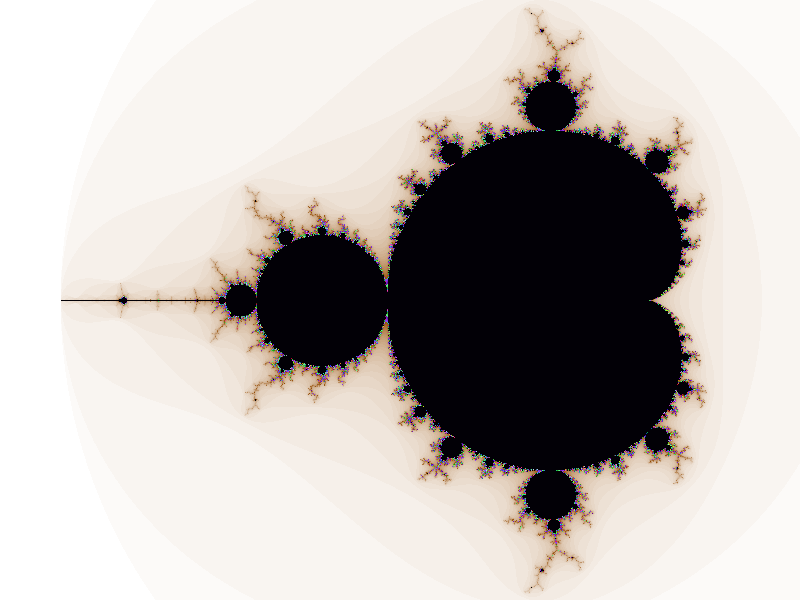
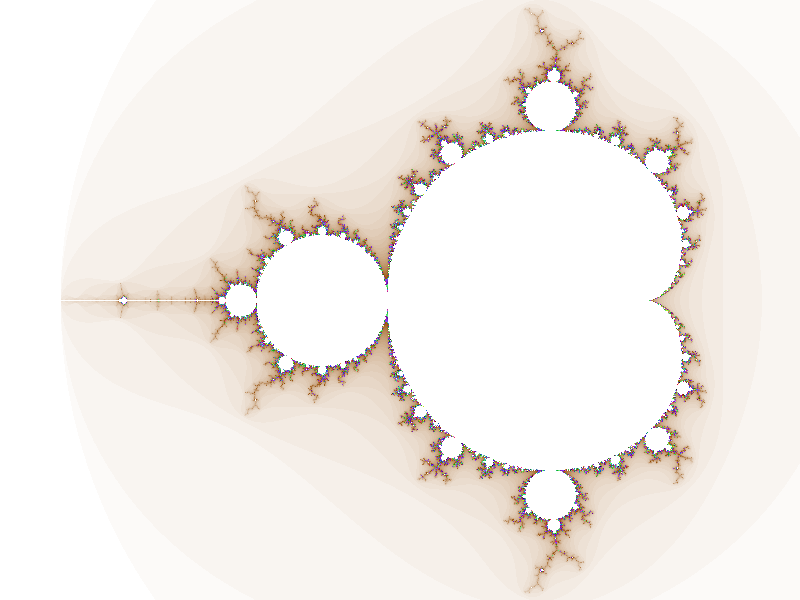
Various work.

Changed region(s): [[0.25, 0.12, 0.875, 0.9], [0.125, 0.48, 0.1562, 0.51]]

diff --git a/blog/2016-04-10-futhark-and-pyopencl.rst b/blog/2016-04-10-futhark-and-pyopencl.rst
@@ -117,8 +117,8 @@ which is encoded as RGB within a 32-bit integer (the alpha channel is
 not used)::
 
   fun int escapeToColour(int depth, int divergence) =
-    if depth == divergence-1
-    then 0xFF0000
+    if depth == divergence
+    then 0x000000
     else
       let r = 3 * divergence
       let g = 5 * divergence
@@ -181,8 +181,8 @@ which we pass to the method::
   maxy=1.15
   fut_image=m.main(width, height, limit, minx, miny, maxx, maxy)
 
-The result value, which we store in the variable ``fut_image``.  Since
-we declared the return type of ``main`` to be
+The result value is stored in the variable ``fut_image``.  Since we
+declared the return type of ``main`` to be
 ``[[int,screenX],screenY]``, the returned value will be a
 two-dimensional Numpy array of shape ``(width,height)``.  We cannot
 pass this directly to the ``png`` library, as it expects a
